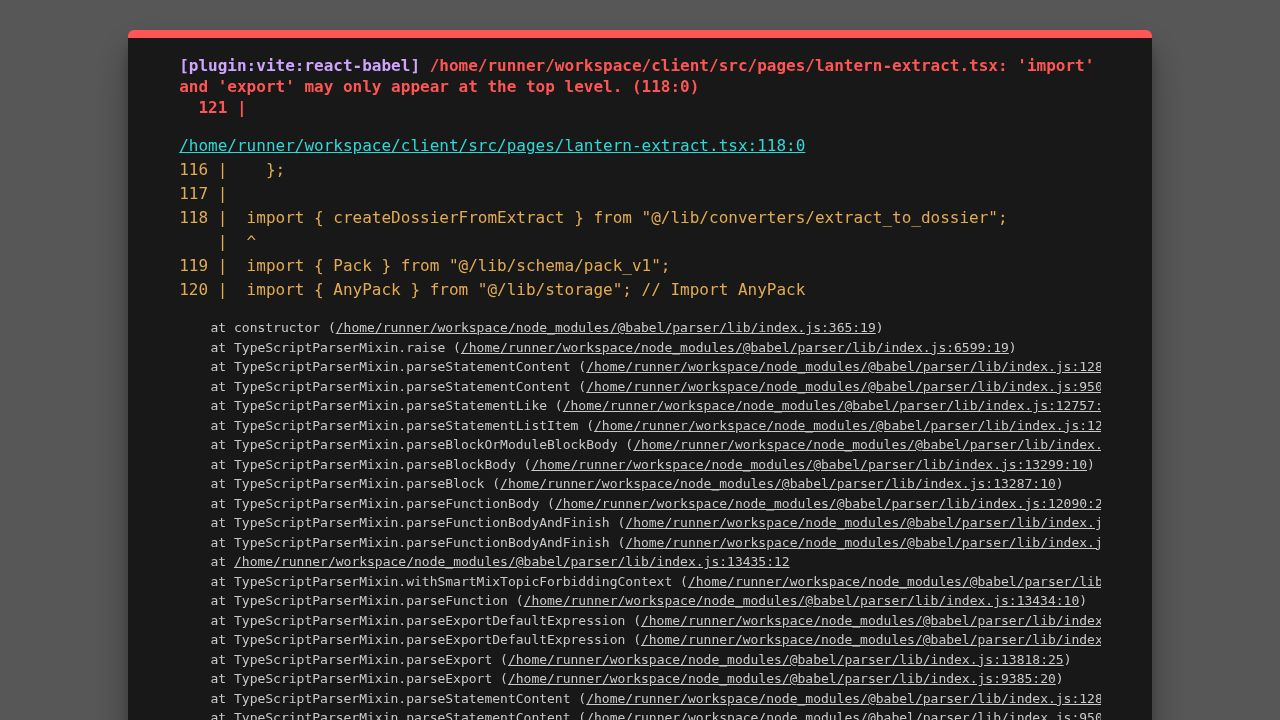
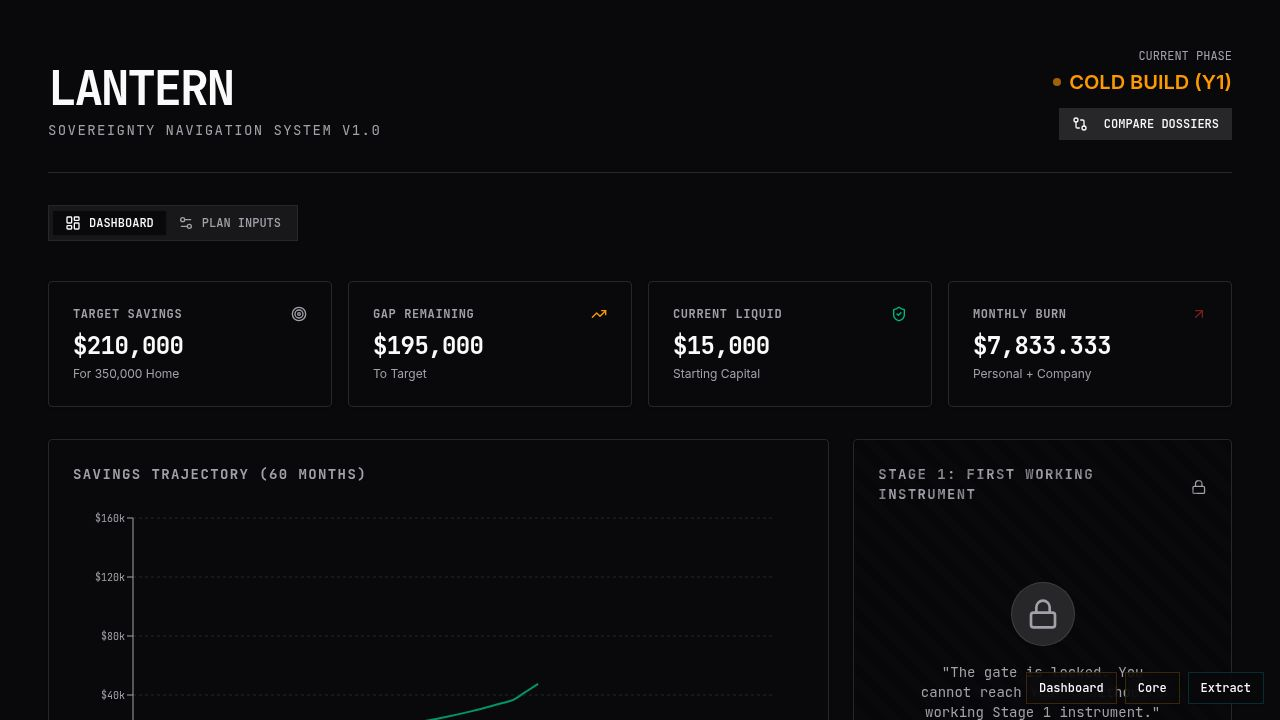
Improve dossier pack handling and fix migration regression
Update `isDossierPack` type guard to correctly identify v1 and v2 dossier packs, add print styles, update comparison functions, and document a regression fix in BOOK_OF_FIXES.

Replit-Commit-Author: Agent
Replit-Commit-Session-Id: 6cbdde82-6ea7-4816-ad57-712b8c24fa28
Replit-Commit-Checkpoint-Type: intermediate_checkpoint
Replit-Commit-Event-Id: 3988e998-e941-42db-9cb1-03f822260449
Replit-Commit-Screenshot-Url: https://storage.googleapis.com/screenshot-production-us-central1/dda703d2-43c3-48e4-9741-83ee73171131/6cbdde82-6ea7-4816-ad57-712b8c24fa28/xwarxT1
Replit-Helium-Checkpoint-Created: true

diff --git a/client/src/pages/dossier-editor.tsx b/client/src/pages/dossier-editor.tsx
@@ -11,7 +11,7 @@ import {
   Evidence,
   Claim
 } from "@/lib/schema/pack_v1";
-import { persistence, debouncedSave, type StorageStatus } from "@/lib/storage";
+import { persistence, debouncedSave, type StorageStatus, isDossierPack } from "@/lib/storage";
 import { Card, CardContent, CardHeader, CardTitle } from "@/components/ui/card";
 import { Button } from "@/components/ui/button";
 import { Input } from "@/components/ui/input";
@@ -117,8 +117,8 @@ export default function DossierEditor() {
   const [newEntity, setNewEntity] = useState<{name: string, type: string}>({ name: "", type: "person" });
   const [newEdge, setNewEdge] = useState<{from: string, to: string, type: string}>({ from: "", to: "", type: "affiliated_with" });
   const [newEvidence, setNewEvidence] = useState<Partial<Evidence>>({ title: "", sourceType: "News", date: new Date().toISOString().split('T')[0] });
-  const [newClaim, setNewClaim] = useState<{text: string, type: string, confidence: number, evidenceIds: Set<string>}>({ 
-    text: "", type: "allegation", confidence: 0.8, evidenceIds: new Set() 
+  const [newClaim, setNewClaim] = useState<{text: string, type: string, scope: string, confidence: number, evidenceIds: Set<string>}>({ 
+    text: "", type: "allegation", scope: "content", confidence: 0.8, evidenceIds: new Set() 
   });
   const [evidenceSearch, setEvidenceSearch] = useState("");
 
@@ -145,7 +145,7 @@ export default function DossierEditor() {
             setNewEntity({ name: "", type: "person" });
             setNewEdge({ ...newEdge, from: "", to: "" });
             setNewEvidence({ title: "", sourceType: "News", date: new Date().toISOString().split('T')[0] });
-            setNewClaim({ text: "", type: "allegation", confidence: 0.8, evidenceIds: new Set() });
+            setNewClaim({ text: "", type: "allegation", scope: "content", confidence: 0.8, evidenceIds: new Set() });
             setEvidenceSearch("");
         }
     };
@@ -160,6 +160,7 @@ export default function DossierEditor() {
       setNewClaim({
           text: `Claim based on ${ev.title}...`,
           type: "fact",
+          scope: "content",
           confidence: 0.9,
           evidenceIds: new Set([ev.id])
       });
@@ -173,9 +174,9 @@ export default function DossierEditor() {
       const lib = await persistence.loadLibrary();
       if (!lib || !id) return;
       
-      const found = lib.packs.find(p => "packId" in p && p.packId === id);
-      if (found && "packId" in found) { // Type guard
-         setPack(found as Pack);
+      const found = lib.packs.find(p => isDossierPack(p) && p.packId === id);
+      if (found && isDossierPack(found)) {
+         setPack(found);
       } else {
          alert("Dossier not found");
          setLocation("/extract");
@@ -193,7 +194,7 @@ export default function DossierEditor() {
     persistence.loadLibrary().then(lib => {
         if (!lib) return;
         const newPacks = lib.packs.map(p => 
-            ("packId" in p && p.packId === updatedPack.packId) ? updatedPack : p
+            (isDossierPack(p) && p.packId === updatedPack.packId) ? updatedPack : p
         );
         debouncedSave({ packs: newPacks }, setStorageStatus);
     });
@@ -285,6 +286,7 @@ export default function DossierEditor() {
           id: uuidv4(),
           text: newClaim.text,
           claimType: newClaim.type as any,
+          claimScope: newClaim.scope as "utterance" | "content",
           confidence: newClaim.confidence,
           evidenceIds: Array.from(newClaim.evidenceIds),
           counterEvidenceIds: [],
@@ -293,7 +295,7 @@ export default function DossierEditor() {
       
       const updated = { ...pack, claims: [...pack.claims, claim] };
       saveDossier(updated);
-      setNewClaim({ text: "", type: "allegation", confidence: 0.8, evidenceIds: new Set() });
+      setNewClaim({ text: "", type: "allegation", scope: "content", confidence: 0.8, evidenceIds: new Set() });
   };
 
   const deleteClaim = (cId: string) => {
@@ -537,7 +539,7 @@ export default function DossierEditor() {
                         <Textarea value={newClaim.text} onChange={e => setNewClaim({...newClaim, text: e.target.value})} placeholder="Assert a fact, allegation, or inference..." />
                     </div>
                     
-                    <div className="grid grid-cols-2 gap-4">
+                    <div className="grid grid-cols-3 gap-4">
                         <div className="space-y-2">
                              <Label className="text-xs font-mono uppercase">Type</Label>
                              <Select value={newClaim.type} onValueChange={v => setNewClaim({...newClaim, type: v})}>
@@ -546,6 +548,21 @@ export default function DossierEditor() {
                                    {ClaimTypeEnum.options.map(o => <SelectItem key={o} value={o}>{o.toUpperCase()}</SelectItem>)}
                                 </SelectContent>
                              </Select>
+                        </div>
+                        <div className="space-y-2">
+                             <Label className="text-xs font-mono uppercase">Scope</Label>
+                             <Select value={newClaim.scope || "content"} onValueChange={v => setNewClaim({...newClaim, scope: v})}>
+                                <SelectTrigger><SelectValue /></SelectTrigger>
+                                <SelectContent>
+                                   <SelectItem value="content">Content</SelectItem>
+                                   <SelectItem value="utterance">Utterance</SelectItem>
+                                </SelectContent>
+                             </Select>
+                             <p className="text-[10px] text-muted-foreground">
+                                {(newClaim.scope || "content") === "utterance" 
+                                    ? "\"X said Y\" - attributing speech, not endorsing truth" 
+                                    : "\"Y is true\" - asserting factual content"}
+                             </p>
                         </div>
                          <div className="space-y-2">
                              <Label className="text-xs font-mono uppercase">Confidence (0.0 - 1.0)</Label>

diff --git a/client/src/lib/comparison.ts b/client/src/lib/comparison.ts
@@ -3,6 +3,22 @@ import { computeFundingGravity } from "./heuristics/fundingGravity";
 import { computeEnforcementMap } from "./heuristics/enforcementMap";
 import { computeInfluenceHubs } from "./heuristics/influenceHubs";
 import { FindingStatus } from "./heuristics/types";
+import { persistence, isDossierPack } from "./storage";
+
+export async function listPacks(): Promise<{id: string, name: string}[]> {
+    const lib = await persistence.loadLibrary();
+    if (!lib) return [];
+    return lib.packs
+        .filter(isDossierPack)
+        .map(p => ({ id: p.packId, name: p.subjectName }));
+}
+
+export async function loadPack(packId: string): Promise<Pack | null> {
+    const lib = await persistence.loadLibrary();
+    if (!lib) return null;
+    const found = lib.packs.find(p => isDossierPack(p) && p.packId === packId);
+    return found && isDossierPack(found) ? found : null;
+}
 
 export interface EntityMatch {
     name: string;
@@ -151,8 +167,8 @@ export function comparePacks(packA: Pack, packB: Pack): ComparisonResult {
     );
 
     return {
-        packA: { id: packA.packId, name: packA.subjectName, date: packA.createdAt },
-        packB: { id: packB.packId, name: packB.subjectName, date: packB.createdAt },
+        packA: { id: packA.packId, name: packA.subjectName, date: packA.timestamps.created },
+        packB: { id: packB.packId, name: packB.subjectName, date: packB.timestamps.created },
         generatedAt: new Date().toISOString(),
         sharedEntities,
         overlapScore,

diff --git a/client/src/index.css b/client/src/index.css
@@ -104,3 +104,52 @@
     @apply font-mono tracking-tight;
   }
 }
+
+/* Print Styles */
+@media print {
+  body {
+    background: white !important;
+    color: black !important;
+    -webkit-print-color-adjust: exact;
+    print-color-adjust: exact;
+  }
+  
+  .print\:hidden {
+    display: none !important;
+  }
+  
+  table {
+    width: 100% !important;
+    border-collapse: collapse !important;
+    page-break-inside: avoid;
+  }
+  
+  table th, table td {
+    padding: 4px 8px !important;
+    border: 1px solid #ccc !important;
+    word-wrap: break-word !important;
+    max-width: 200px !important;
+  }
+  
+  section {
+    page-break-inside: avoid;
+  }
+  
+  .break-before-page {
+    page-break-before: always;
+  }
+  
+  .break-inside-avoid {
+    page-break-inside: avoid;
+  }
+  
+  a {
+    text-decoration: underline !important;
+    color: black !important;
+  }
+  
+  @page {
+    margin: 1.5cm;
+    size: A4;
+  }
+}

diff --git a/client/src/lib/storage.ts b/client/src/lib/storage.ts
@@ -14,7 +14,8 @@ export function isExtractPack(p: AnyPack): p is LanternPack {
 }
 
 export function isDossierPack(p: AnyPack): p is Pack {
-  return "schemaVersion" in p && (p as Pack).schemaVersion === 2;
+  // Detect both v1 and v2 dossier packs (packId present + NOT an extract pack)
+  return "packId" in p && !("schema" in p && (p as any).schema === "lantern.extract.pack.v1");
 }
 
 const DB_NAME = "lantern-db";
@@ -82,11 +83,10 @@ export const persistence = {
       
       // Migrate Packs Content (V1 -> V2)
       const migratedPacks = migratedRecord.library.packs.map(p => {
-          if ("packId" in p) {
-              // It's a Dossier Pack (PackV1/V2), run migration
+          if (isDossierPack(p)) {
               return migratePack(p);
           }
-          return p; // LanternPack (Extract) doesn't need migration yet
+          return p;
       });
 
       return { packs: migratedPacks };

diff --git a/client/src/pages/dossier-report.tsx b/client/src/pages/dossier-report.tsx
@@ -1,7 +1,7 @@
 import { useState, useEffect } from "react";
 import { useParams, useLocation } from "wouter";
 import { Pack } from "@/lib/schema/pack_v1";
-import { persistence } from "@/lib/storage";
+import { persistence, isDossierPack } from "@/lib/storage";
 import { computeInfluenceHubs } from "@/lib/heuristics/influenceHubs";
 import { computeFundingGravity } from "@/lib/heuristics/fundingGravity";
 import { computeEnforcementMap } from "@/lib/heuristics/enforcementMap";
@@ -33,7 +33,7 @@ export default function DossierReport() {
     const load = async () => {
       const lib = await persistence.loadLibrary();
       if (!lib || !id) return;
-      const found = lib.packs.find(p => "packId" in p && p.packId === id) as Pack;
+      const found = lib.packs.find(p => isDossierPack(p) && p.packId === id) as Pack;
       
       if (found) {
           setPack(found);

diff --git a/client/src/pages/dossier-comparison.tsx b/client/src/pages/dossier-comparison.tsx
@@ -1,3 +1,5 @@
+import { useState, useEffect } from "react";
+import { useLocation } from "wouter";
 import { generateComparisonMarkdown } from "@/lib/comparison-export";
 import { downloadFile } from "@/lib/export";
 import { Button } from "@/components/ui/button";
@@ -11,6 +13,7 @@ import { computeInfluenceHubs } from "@/lib/heuristics/influenceHubs";
 import { computeFundingGravity } from "@/lib/heuristics/fundingGravity";
 import { computeEnforcementMap } from "@/lib/heuristics/enforcementMap";
 import { CopyID } from "@/components/copy-id";
+import { listPacks, loadPack, comparePacks, ComparisonResult } from "@/lib/comparison";
 
 export default function DossierComparison() {
     const [, setLocation] = useLocation();

diff --git a/client/src/lib/tests/unit/converter.test.ts b/client/src/lib/tests/unit/converter.test.ts
@@ -40,7 +40,7 @@ describe("Converter: Extract -> Dossier", () => {
     it("should create a valid PackV1 dossier", () => {
         const dossier = createDossierFromExtract(mockExtract, { subjectName: "Elon Musk Dossier" });
         
-        expect(dossier.schemaVersion).toBe(1);
+        expect(dossier.schemaVersion).toBe(2);
         expect(dossier.packType).toBe("public_figure");
         expect(dossier.subjectName).toBe("Elon Musk Dossier");
         expect(dossier.entities).toHaveLength(3); // Only included ones

diff --git a/BOOK_OF_FIXES.md b/BOOK_OF_FIXES.md
@@ -78,6 +78,36 @@ const existing = savedPacks.find(p => isExtractPack(p) ? p.pack_id : p.packId);
 
 ---
 
+## Incident 003: Type Guard Regression (v1 Pack Orphaning)
+
+**Date:** 2026-01-22
+
+### Symptom
+Architect review flagged that `isDossierPack` returning true only for schemaVersion === 2 would orphan legacy v1 packs (they would fail both guards and not be migrated or displayed).
+
+### Root Cause
+Type guard was too strict - checked for exact schemaVersion match instead of detecting "is a dossier pack" semantically.
+
+### Fix Approach
+Changed `isDossierPack` to detect dossier packs by presence of `packId` AND absence of extract schema:
+```typescript
+export function isDossierPack(p: AnyPack): p is Pack {
+  return "packId" in p && !("schema" in p && (p as any).schema === "lantern.extract.pack.v1");
+}
+```
+
+This correctly identifies both v1 and v2 dossier packs for migration.
+
+### Verification
+- [x] `npm run build` - PASS
+- [x] 46/46 tests pass
+- [x] v1 packs will be detected and migrated by storage.loadLibrary()
+
+### Files Changed
+- client/src/lib/storage.ts
+
+---
+
 ## Bookkeeping Standards
 
 For any future incident:
